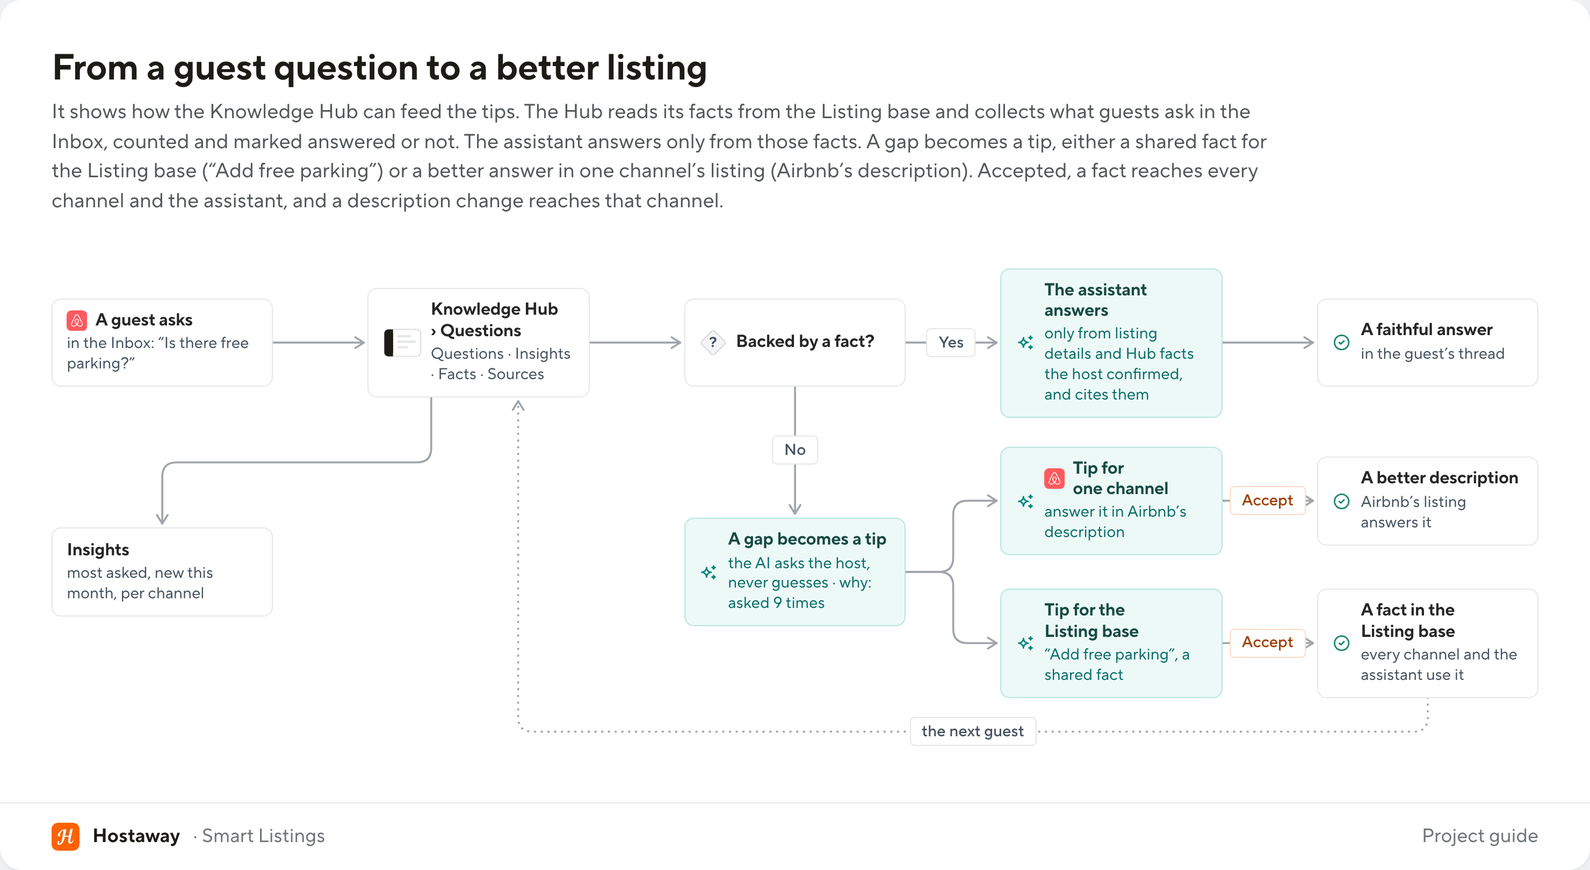
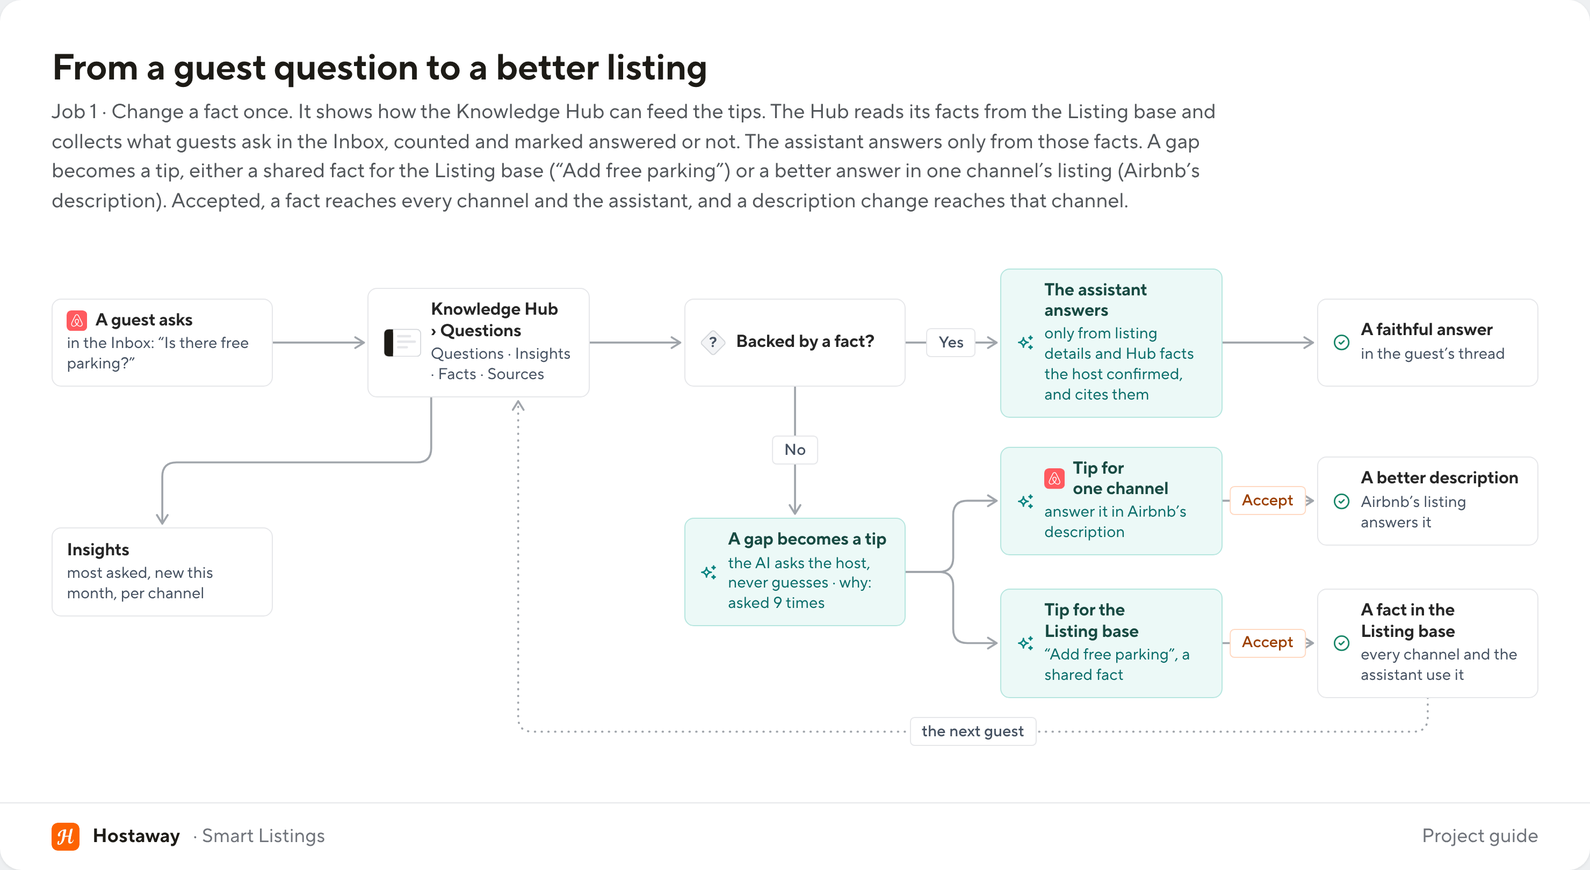
Flows belong to the jobs to be done: job-to-flow slide, door from each job, job named in each flow; fix wall flow labels showing through the detail sheet
Claude-Session: https://claude.ai/code/session_01JX8xm5ZvpgPjVLBecgb3Gj

Changed region(s): [[0.0311, 0.1235, 0.777, 0.2469]]

diff --git a/deck/src/pages/hostaway.html b/deck/src/pages/hostaway.html
@@ -1019,7 +1019,7 @@
       </ul>
     </div>
   </template>
-  <div class="s-foot"><p class="hc-src"><span>Today's functions and gaps</span><span>Help Center</span><span>Smart Listings, our concept</span><span class="more-link" data-more="jobs">Why jobs</span></p></div>
+  <div class="s-foot"><p class="hc-src"><span>Today's functions and gaps</span><span>Help Center</span><span>Smart Listings, our concept</span><span class="more-link" data-more="jobs">Why jobs</span><span class="more-link rs-jm__flow" data-more="ds-flows/jf-change-once">This job’s flow</span></p></div>
   <aside class="notes"><p>This replaces persona quotes with jobs. A job isn’t tied to a host type. Every host has the same goal: a listing that is right on every channel, and that they can check. So we built four jobs from the tool itself, its sections and its flows. The alternative was one job per persona, but that gives sixteen maps and hides what the personas share.</p><p>[Press] Choose a job to see its journey. What changes, where we edit it, what we see before and after we save, and what happens over time. Each one lists what exists today and what Smart Listings adds. The gaps are the ones we found in the flows. The constraint is that the maps use today’s product, so they show gaps in what exists, not what hosts say.</p><p>[Press] The More panel explains why we chose jobs over personas. The journey maps and the full detail are in Notion, under 02 · Research.</p></aside>
 </section>
 
@@ -2086,34 +2086,32 @@
   <aside class="notes"><p>Here is where the audit of Hostaway led. The facts live in two places. And our premise is that hosts change money and stay rules per channel, almost never the words. So in the prototype, the property splits the way hosts think. On the left, Shared holds every fact once, and each channel gets its own pages. In the middle is Hostaway’s own listing editor, set to Airbnb. Every field says where its value comes from. On the right is a real tip card, not a picture of one. It says what to change and why. Accepting it creates Airbnb’s own value without touching the Base. We designed in code and reviewed the running build. Behind The map is what those reviews took out. The experimentation part specifies how each claim would be checked with real hosts. We chose one listing with channels inside it over a separate AI page, because the decision should sit next to the field it changes. About 55 seconds.</p></aside>
 </section>
 
-<section class="s" data-id="ds-flows" data-title="The user flows" data-stage="4" data-part="design" data-path="S" data-angle="B" data-min="0.8" data-req="R-100" data-ground="white">
+<section class="s" data-id="ds-flows" data-title="A flow for each job" data-stage="4" data-part="design" data-path="S" data-angle="B" data-min="0.8" data-req="R-100" data-ground="white">
   <header class="s-head">
     <p class="eyebrow" data-a="rise"><span>Design</span><span>User flows</span></p>
-    <h2 class="h2" data-a="rise" data-at="0.05">Five flows carry the whole design</h2>
-    <p class="hc-msg" data-a="rise" data-at="0.12">Where each one starts, and what the host has at the end of it.</p>
+    <h2 class="h2" data-a="rise" data-at="0.05">Each job from research has its own flow</h2>
+    <p class="hc-msg" data-a="rise" data-at="0.12">The four jobs hosts need done, and the flow that gets each one done.</p>
   </header>
   <div class="s-body">
     <ol class="tm-miss tm-miss--port" data-a="stagger" data-s="1.2" data-at="0.18">
-      <li data-tint="blush"><span class="tm-tile"><svg><use href="#i-wand"/></svg></span><b class="tm-miss__s">1 · Turn on Smart Listings</b><span class="tm-miss__bar">Property › Overview</span><svg class="tm-miss__arrow"><use href="#i-arrow-right"/></svg><span class="tm-miss__do">A strategy, and tips on every channel</span></li>
-      <li data-tint="lavender"><span class="tm-tile"><svg><use href="#i-sparkles"/></svg></span><b class="tm-miss__s">2 · Work through tips</b><span class="tm-miss__bar">A channel’s Listing page</span><svg class="tm-miss__arrow"><use href="#i-arrow-right"/></svg><span class="tm-miss__do">The field updated and sent, with Undo</span></li>
-      <li data-tint="butter"><span class="tm-tile"><svg><use href="#i-layers-intersect"/></svg></span><b class="tm-miss__s">3 · One field, four cases</b><span class="tm-miss__bar">Any field on a channel</span><svg class="tm-miss__arrow"><use href="#i-arrow-right"/></svg><span class="tm-miss__do">Uses the Base, custom, channel-only or locked</span></li>
-      <li data-tint="mint"><span class="tm-tile"><svg><use href="#i-trending-up"/></svg></span><b class="tm-miss__s">4 · Check Performance</b><span class="tm-miss__bar">Smart Listings › Performance</span><svg class="tm-miss__arrow"><use href="#i-arrow-right"/></svg><span class="tm-miss__do">Keep the strategy, or edit or replace it</span></li>
-      <li data-tint="blush"><span class="tm-tile"><svg><use href="#i-users"/></svg></span><b class="tm-miss__s">5 · From a guest question</b><span class="tm-miss__bar">A question in the Inbox</span><svg class="tm-miss__arrow"><use href="#i-arrow-right"/></svg><span class="tm-miss__do">A better listing or a new shared fact</span></li>
+      <li data-tint="blush"><span class="tm-tile"><svg><use href="#i-layers-intersect"/></svg></span><b class="tm-miss__s">1 · Change a fact once</b><span class="tm-miss__bar">Flow: One field, four cases</span><svg class="tm-miss__arrow"><use href="#i-arrow-right"/></svg><span class="tm-miss__do">Facts kept once, every channel and the assistant updated</span></li>
+      <li data-tint="butter"><span class="tm-tile"><svg><use href="#i-adjustments-horizontal"/></svg></span><b class="tm-miss__s">2 · Set money and stay rules per channel</b><span class="tm-miss__bar">Flow: Turn on a strategy per channel</span><svg class="tm-miss__arrow"><use href="#i-arrow-right"/></svg><span class="tm-miss__do">Prices and rules per channel, inside guardrails</span></li>
+      <li data-tint="lavender"><span class="tm-tile"><svg><use href="#i-sparkles"/></svg></span><b class="tm-miss__s">3 · Write for each channel</b><span class="tm-miss__bar">Flow: Work through tips</span><svg class="tm-miss__arrow"><use href="#i-arrow-right"/></svg><span class="tm-miss__do">Each channel reads right, with Undo</span></li>
+      <li data-tint="mint"><span class="tm-tile"><svg><use href="#i-trending-up"/></svg></span><b class="tm-miss__s">4 · Confirm what went where</b><span class="tm-miss__bar">Flow: Check Performance</span><svg class="tm-miss__arrow"><use href="#i-arrow-right"/></svg><span class="tm-miss__do">Proof per channel, and a strategy kept or replaced</span></li>
     </ol>
   </div>
-  <template class="more" data-more="flow-turn-on" data-title="Flow 1 · Turn on" data-label="Flow 1"><div class="more__panel" data-title="Flow 1"><figure class="hc-flow" data-flow="turn-on" data-at="0.3"></figure></div></template>
-  <template class="more" data-more="flow-tips" data-title="Flow 2 · Tips" data-label="Flow 2"><div class="more__panel" data-title="Flow 2"><figure class="hc-flow" data-flow="tips" data-at="0.3"></figure></div></template>
-  <template class="more" data-more="flow-one-field" data-title="Flow 3 · One field" data-label="Flow 3"><div class="more__panel" data-title="Flow 3"><figure class="hc-flow" data-flow="one-field" data-at="0.3"></figure></div></template>
-  <template class="more" data-more="flow-performance" data-title="Flow 4 · Performance" data-label="Flow 4"><div class="more__panel" data-title="Flow 4"><figure class="hc-flow" data-flow="performance" data-at="0.3"></figure></div></template>
-  <template class="more" data-more="flow-hub-to-tips" data-title="Flow 5 · Guest question" data-label="Flow 5"><div class="more__panel" data-title="Flow 5"><figure class="hc-flow" data-flow="hub-to-tips" data-at="0.3"></figure></div></template>
-  <div class="s-foot"><p class="hc-src"><span>Each flow is built in the prototype and specified in Notion</span><span class="more-link" data-more="flow-turn-on">Flow 1</span><span class="more-link" data-more="flow-tips">Flow 2</span><span class="more-link" data-more="flow-one-field">Flow 3</span><span class="more-link" data-more="flow-performance">Flow 4</span><span class="more-link" data-more="flow-hub-to-tips">Flow 5</span></p></div>
-  <aside class="notes"><p>Five flows carry the whole design, and every team can trace its work to one of them. Turning Smart Listings on, from the property Overview to a strategy and tips on every channel. Working through tips on a channel’s page, one at a time, with Undo. One field in four cases: it uses the Base, is custom for a channel, exists only there, or is locked by the channel. Checking Performance, then keeping, editing or replacing a strategy. And a guest question becoming a better listing. The detail opens each flow in full. About 45 seconds.</p></aside>
+  <template class="more" data-more="jf-change-once" data-title="Job · Change a fact once" data-label="Job 1 flow"><div class="more__panel" data-title="One field, four cases"><figure class="hc-flow" data-flow="one-field" data-at="0.3"></figure></div><div class="more__panel" data-title="From a guest question"><figure class="hc-flow" data-flow="hub-to-tips" data-at="0.3"></figure></div></template>
+  <template class="more" data-more="jf-money-per-channel" data-title="Job · Set money and stay rules per channel" data-label="Job 2 flow"><div class="more__panel" data-title="Turn on a strategy"><figure class="hc-flow" data-flow="turn-on" data-at="0.3"></figure></div></template>
+  <template class="more" data-more="jf-write-per-channel" data-title="Job · Write for each channel" data-label="Job 3 flow"><div class="more__panel" data-title="Work through tips"><figure class="hc-flow" data-flow="tips" data-at="0.3"></figure></div></template>
+  <template class="more" data-more="jf-confirm-arrived" data-title="Job · Confirm what went where" data-label="Job 4 flow"><div class="more__panel" data-title="Check Performance"><figure class="hc-flow" data-flow="performance" data-at="0.3"></figure></div></template>
+  <div class="s-foot"><p class="hc-src"><span>Jobs from the research, flows built in the prototype</span><span class="more-link" data-more="jf-change-once">Job 1</span><span class="more-link" data-more="jf-money-per-channel">Job 2</span><span class="more-link" data-more="jf-write-per-channel">Job 3</span><span class="more-link" data-more="jf-confirm-arrived">Job 4</span></p></div>
+  <aside class="notes"><p>The flows come straight out of the research. Each of the four jobs hosts need done has its own flow. Change a fact once: one field in four cases, and a guest question that becomes a shared fact. Set money and stay rules per channel: turn on a strategy with its guardrails. Write for each channel: work through the tips. Confirm what went where: check Performance per channel. Each job opens its flow. About 45 seconds.</p></aside>
 </section>
 
-<section class="s" data-id="ds-flow-core" data-title="The core flow" data-stage="4" data-part="design" data-path="St" data-angle="B" data-min="0.7" data-req="R-100" data-ground="white">
+<section class="s" data-id="ds-flow-core" data-title="Flow for job 2" data-stage="4" data-part="design" data-path="St" data-angle="B" data-min="0.7" data-req="R-100" data-ground="white">
   <header class="s-head">
-    <p class="eyebrow" data-a="rise"><span>Design</span><span>User flows</span></p>
-    <h2 class="h2" data-a="rise" data-at="0.05">The core flow: turn it on once, then tips arrive on every channel</h2>
+    <p class="eyebrow" data-a="rise"><span>Design</span><span>Job 2 · Money and stay rules per channel</span></p>
+    <h2 class="h2" data-a="rise" data-at="0.05">Set a strategy per channel once, and its guardrails hold every change</h2>
   </header>
   <div class="s-body">
     <figure class="hc-flow" data-flow="turn-on" data-at="0.2"></figure>

diff --git a/deck/src/slides/50-design.html b/deck/src/slides/50-design.html
@@ -78,34 +78,32 @@
   <aside class="notes"><p>Here is where the audit of Hostaway led. The facts live in two places. And our premise is that hosts change money and stay rules per channel, almost never the words. So in the prototype, the property splits the way hosts think. On the left, Shared holds every fact once, and each channel gets its own pages. In the middle is Hostaway’s own listing editor, set to Airbnb. Every field says where its value comes from. On the right is a real tip card, not a picture of one. It says what to change and why. Accepting it creates Airbnb’s own value without touching the Base. We designed in code and reviewed the running build. Behind The map is what those reviews took out. The experimentation part specifies how each claim would be checked with real hosts. We chose one listing with channels inside it over a separate AI page, because the decision should sit next to the field it changes. About 55 seconds.</p></aside>
 </section>
 
-<section class="s" data-id="ds-flows" data-title="The user flows" data-stage="4" data-part="design" data-path="S" data-angle="B" data-min="0.8" data-req="R-100" data-ground="white">
+<section class="s" data-id="ds-flows" data-title="A flow for each job" data-stage="4" data-part="design" data-path="S" data-angle="B" data-min="0.8" data-req="R-100" data-ground="white">
   <header class="s-head">
     <p class="eyebrow" data-a="rise"><span>Design</span><span>User flows</span></p>
-    <h2 class="h2" data-a="rise" data-at="0.05">Five flows carry the whole design</h2>
-    <p class="hc-msg" data-a="rise" data-at="0.12">Where each one starts, and what the host has at the end of it.</p>
+    <h2 class="h2" data-a="rise" data-at="0.05">Each job from research has its own flow</h2>
+    <p class="hc-msg" data-a="rise" data-at="0.12">The four jobs hosts need done, and the flow that gets each one done.</p>
   </header>
   <div class="s-body">
     <ol class="tm-miss tm-miss--port" data-a="stagger" data-s="1.2" data-at="0.18">
-      <li data-tint="blush"><span class="tm-tile"><svg><use href="#i-wand"/></svg></span><b class="tm-miss__s">1 · Turn on Smart Listings</b><span class="tm-miss__bar">Property › Overview</span><svg class="tm-miss__arrow"><use href="#i-arrow-right"/></svg><span class="tm-miss__do">A strategy, and tips on every channel</span></li>
-      <li data-tint="lavender"><span class="tm-tile"><svg><use href="#i-sparkles"/></svg></span><b class="tm-miss__s">2 · Work through tips</b><span class="tm-miss__bar">A channel’s Listing page</span><svg class="tm-miss__arrow"><use href="#i-arrow-right"/></svg><span class="tm-miss__do">The field updated and sent, with Undo</span></li>
-      <li data-tint="butter"><span class="tm-tile"><svg><use href="#i-layers-intersect"/></svg></span><b class="tm-miss__s">3 · One field, four cases</b><span class="tm-miss__bar">Any field on a channel</span><svg class="tm-miss__arrow"><use href="#i-arrow-right"/></svg><span class="tm-miss__do">Uses the Base, custom, channel-only or locked</span></li>
-      <li data-tint="mint"><span class="tm-tile"><svg><use href="#i-trending-up"/></svg></span><b class="tm-miss__s">4 · Check Performance</b><span class="tm-miss__bar">Smart Listings › Performance</span><svg class="tm-miss__arrow"><use href="#i-arrow-right"/></svg><span class="tm-miss__do">Keep the strategy, or edit or replace it</span></li>
-      <li data-tint="blush"><span class="tm-tile"><svg><use href="#i-users"/></svg></span><b class="tm-miss__s">5 · From a guest question</b><span class="tm-miss__bar">A question in the Inbox</span><svg class="tm-miss__arrow"><use href="#i-arrow-right"/></svg><span class="tm-miss__do">A better listing or a new shared fact</span></li>
+      <li data-tint="blush"><span class="tm-tile"><svg><use href="#i-layers-intersect"/></svg></span><b class="tm-miss__s">1 · Change a fact once</b><span class="tm-miss__bar">Flow: One field, four cases</span><svg class="tm-miss__arrow"><use href="#i-arrow-right"/></svg><span class="tm-miss__do">Facts kept once, every channel and the assistant updated</span></li>
+      <li data-tint="butter"><span class="tm-tile"><svg><use href="#i-adjustments-horizontal"/></svg></span><b class="tm-miss__s">2 · Set money and stay rules per channel</b><span class="tm-miss__bar">Flow: Turn on a strategy per channel</span><svg class="tm-miss__arrow"><use href="#i-arrow-right"/></svg><span class="tm-miss__do">Prices and rules per channel, inside guardrails</span></li>
+      <li data-tint="lavender"><span class="tm-tile"><svg><use href="#i-sparkles"/></svg></span><b class="tm-miss__s">3 · Write for each channel</b><span class="tm-miss__bar">Flow: Work through tips</span><svg class="tm-miss__arrow"><use href="#i-arrow-right"/></svg><span class="tm-miss__do">Each channel reads right, with Undo</span></li>
+      <li data-tint="mint"><span class="tm-tile"><svg><use href="#i-trending-up"/></svg></span><b class="tm-miss__s">4 · Confirm what went where</b><span class="tm-miss__bar">Flow: Check Performance</span><svg class="tm-miss__arrow"><use href="#i-arrow-right"/></svg><span class="tm-miss__do">Proof per channel, and a strategy kept or replaced</span></li>
     </ol>
   </div>
-  <template class="more" data-more="flow-turn-on" data-title="Flow 1 · Turn on" data-label="Flow 1"><div class="more__panel" data-title="Flow 1"><figure class="hc-flow" data-flow="turn-on" data-at="0.3"></figure></div></template>
-  <template class="more" data-more="flow-tips" data-title="Flow 2 · Tips" data-label="Flow 2"><div class="more__panel" data-title="Flow 2"><figure class="hc-flow" data-flow="tips" data-at="0.3"></figure></div></template>
-  <template class="more" data-more="flow-one-field" data-title="Flow 3 · One field" data-label="Flow 3"><div class="more__panel" data-title="Flow 3"><figure class="hc-flow" data-flow="one-field" data-at="0.3"></figure></div></template>
-  <template class="more" data-more="flow-performance" data-title="Flow 4 · Performance" data-label="Flow 4"><div class="more__panel" data-title="Flow 4"><figure class="hc-flow" data-flow="performance" data-at="0.3"></figure></div></template>
-  <template class="more" data-more="flow-hub-to-tips" data-title="Flow 5 · Guest question" data-label="Flow 5"><div class="more__panel" data-title="Flow 5"><figure class="hc-flow" data-flow="hub-to-tips" data-at="0.3"></figure></div></template>
-  <div class="s-foot"><p class="hc-src"><span>Each flow is built in the prototype and specified in Notion</span><span class="more-link" data-more="flow-turn-on">Flow 1</span><span class="more-link" data-more="flow-tips">Flow 2</span><span class="more-link" data-more="flow-one-field">Flow 3</span><span class="more-link" data-more="flow-performance">Flow 4</span><span class="more-link" data-more="flow-hub-to-tips">Flow 5</span></p></div>
-  <aside class="notes"><p>Five flows carry the whole design, and every team can trace its work to one of them. Turning Smart Listings on, from the property Overview to a strategy and tips on every channel. Working through tips on a channel’s page, one at a time, with Undo. One field in four cases: it uses the Base, is custom for a channel, exists only there, or is locked by the channel. Checking Performance, then keeping, editing or replacing a strategy. And a guest question becoming a better listing. The detail opens each flow in full. About 45 seconds.</p></aside>
+  <template class="more" data-more="jf-change-once" data-title="Job · Change a fact once" data-label="Job 1 flow"><div class="more__panel" data-title="One field, four cases"><figure class="hc-flow" data-flow="one-field" data-at="0.3"></figure></div><div class="more__panel" data-title="From a guest question"><figure class="hc-flow" data-flow="hub-to-tips" data-at="0.3"></figure></div></template>
+  <template class="more" data-more="jf-money-per-channel" data-title="Job · Set money and stay rules per channel" data-label="Job 2 flow"><div class="more__panel" data-title="Turn on a strategy"><figure class="hc-flow" data-flow="turn-on" data-at="0.3"></figure></div></template>
+  <template class="more" data-more="jf-write-per-channel" data-title="Job · Write for each channel" data-label="Job 3 flow"><div class="more__panel" data-title="Work through tips"><figure class="hc-flow" data-flow="tips" data-at="0.3"></figure></div></template>
+  <template class="more" data-more="jf-confirm-arrived" data-title="Job · Confirm what went where" data-label="Job 4 flow"><div class="more__panel" data-title="Check Performance"><figure class="hc-flow" data-flow="performance" data-at="0.3"></figure></div></template>
+  <div class="s-foot"><p class="hc-src"><span>Jobs from the research, flows built in the prototype</span><span class="more-link" data-more="jf-change-once">Job 1</span><span class="more-link" data-more="jf-money-per-channel">Job 2</span><span class="more-link" data-more="jf-write-per-channel">Job 3</span><span class="more-link" data-more="jf-confirm-arrived">Job 4</span></p></div>
+  <aside class="notes"><p>The flows come straight out of the research. Each of the four jobs hosts need done has its own flow. Change a fact once: one field in four cases, and a guest question that becomes a shared fact. Set money and stay rules per channel: turn on a strategy with its guardrails. Write for each channel: work through the tips. Confirm what went where: check Performance per channel. Each job opens its flow. About 45 seconds.</p></aside>
 </section>
 
-<section class="s" data-id="ds-flow-core" data-title="The core flow" data-stage="4" data-part="design" data-path="St" data-angle="B" data-min="0.7" data-req="R-100" data-ground="white">
+<section class="s" data-id="ds-flow-core" data-title="Flow for job 2" data-stage="4" data-part="design" data-path="St" data-angle="B" data-min="0.7" data-req="R-100" data-ground="white">
   <header class="s-head">
-    <p class="eyebrow" data-a="rise"><span>Design</span><span>User flows</span></p>
-    <h2 class="h2" data-a="rise" data-at="0.05">The core flow: turn it on once, then tips arrive on every channel</h2>
+    <p class="eyebrow" data-a="rise"><span>Design</span><span>Job 2 · Money and stay rules per channel</span></p>
+    <h2 class="h2" data-a="rise" data-at="0.05">Set a strategy per channel once, and its guardrails hold every change</h2>
   </header>
   <div class="s-body">
     <figure class="hc-flow" data-flow="turn-on" data-at="0.2"></figure>

diff --git a/deck/src/slides/20-research.html b/deck/src/slides/20-research.html
@@ -250,7 +250,7 @@
       </ul>
     </div>
   </template>
-  <div class="s-foot"><p class="hc-src"><span>Today's functions and gaps</span><span>Help Center</span><span>Smart Listings, our concept</span><span class="more-link" data-more="jobs">Why jobs</span></p></div>
+  <div class="s-foot"><p class="hc-src"><span>Today's functions and gaps</span><span>Help Center</span><span>Smart Listings, our concept</span><span class="more-link" data-more="jobs">Why jobs</span><span class="more-link rs-jm__flow" data-more="ds-flows/jf-change-once">This job’s flow</span></p></div>
   <aside class="notes"><p>This replaces persona quotes with jobs. A job isn’t tied to a host type. Every host has the same goal: a listing that is right on every channel, and that they can check. So we built four jobs from the tool itself, its sections and its flows. The alternative was one job per persona, but that gives sixteen maps and hides what the personas share.</p><p>[Press] Choose a job to see its journey. What changes, where we edit it, what we see before and after we save, and what happens over time. Each one lists what exists today and what Smart Listings adds. The gaps are the ones we found in the flows. The constraint is that the maps use today’s product, so they show gaps in what exists, not what hosts say.</p><p>[Press] The More panel explains why we chose jobs over personas. The journey maps and the full detail are in Notion, under 02 · Research.</p></aside>
 </section>
 

diff --git a/deck/src/kit/deck.css b/deck/src/kit/deck.css
@@ -480,3 +480,5 @@ html.is-print .more-page .more-sheet__body { padding-bottom: 48px; }
 @keyframes navhint-press { 0%, 100% { transform: none; box-shadow: 0 2px 0 rgba(0,0,0,.14); } 40% { transform: translateY(2px); box-shadow: 0 0 0 rgba(0,0,0,.14); background: var(--color-bg-secondary-brand-secondary); } }
 @media (prefers-reduced-motion: reduce) { .navhint, .navhint kbd.is-press { animation: none; } }
 .opener__methods span:not(.opener__k), .opener__outs span:not(.opener__outs) { cursor: pointer; }
+/* a flow drawn on the wall keeps its labels under an open detail sheet */
+.stage:has(> .more-layer:not([hidden])) .s .hc-flow__lbl { visibility: hidden; }

diff --git a/deck/src/slides/20-research.js b/deck/src/slides/20-research.js
@@ -31,5 +31,6 @@ document.addEventListener('click', (e) => {
   const chip = e.target.closest('.rs-jm__chip'); if (!chip) return;
   const root = chip.closest('.rs-jm'); const key = chip.dataset.job;
   root.querySelectorAll('.rs-jm__chip').forEach((b) => b.classList.toggle('is-on', b === chip));
+  chip.closest('.s')?.querySelectorAll('[data-more^="ds-flows/jf-"]').forEach((d) => { d.dataset.more = `ds-flows/jf-${chip.dataset.job}`; });   // the job's own flow (50-design shows them all)
   root.querySelectorAll('.rs-jm__fig').forEach((f) => f.classList.toggle('is-off', f.dataset.job !== key));
 });
